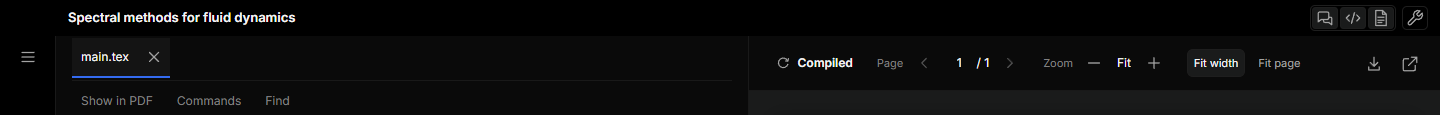
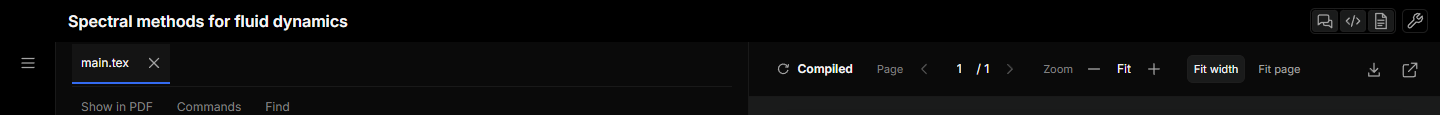
Increase the project title size

diff --git a/style.css b/style.css
@@ -3,7 +3,7 @@
 /* Standard T3 Code desktop palette, stable v0.1.9. See docs/ui-theme.md. */
 :root {
   --action-gap:6px;
-  --window-controls-height:36px;
+  --window-controls-height:42px;
   --font-sans:-apple-system,BlinkMacSystemFont,"Inter Variable","Segoe UI",system-ui,sans-serif;
   --font-mono:"SF Mono","SFMono-Regular",Menlo,Consolas,"Liberation Mono",monospace;
   color-scheme:light;
@@ -1041,6 +1041,7 @@ main {
 }
 
 .project-trail #project-name {
+  font-size:16px;
   width:auto;
   min-width:0;
   margin:0;
